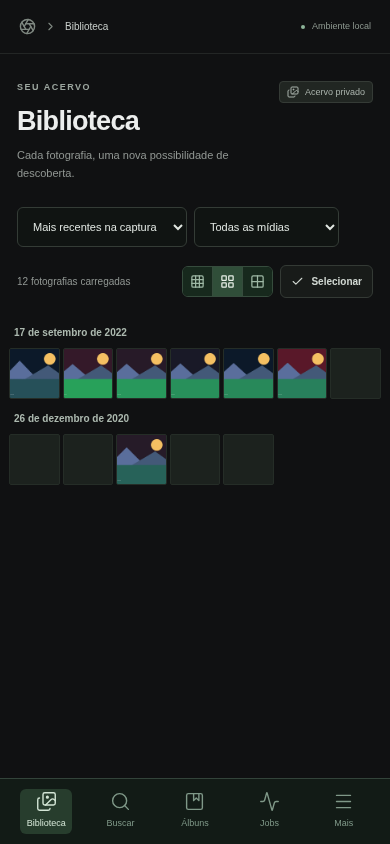
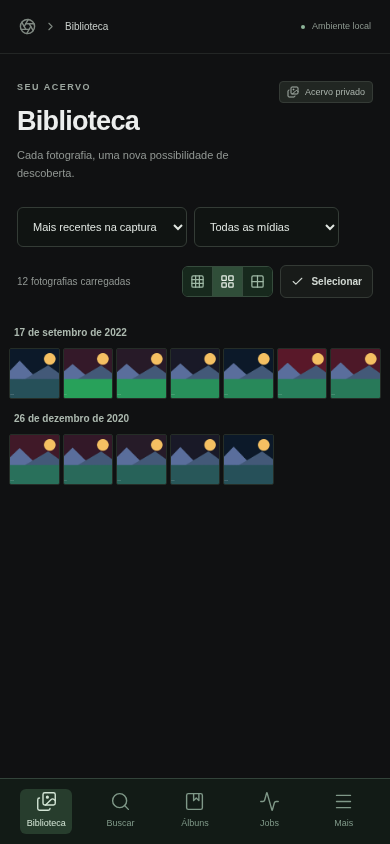
Expose model preprocessing provenance and record verified local restoration

Changed region(s): [[0.0, 0.4929, 0.3077, 0.5853], [0.4308, 0.5237, 0.7077, 0.5853], [0.8308, 0.4005, 0.9846, 0.4929]]

diff --git a/apps/api/src/photointel/routers/catalog.py b/apps/api/src/photointel/routers/catalog.py
@@ -188,6 +188,7 @@ async def asset_detail(asset_id: UUID, session: Session) -> AssetDetailOut:
                 "id": run.id,
                 "model_name": model.model_name,
                 "model_revision": model.revision,
+                "preprocessing_revision": model.preprocessing_revision,
                 "input_revision": run.input_revision,
                 "status": run.status,
                 "runtime_ms": run.runtime_ms,
